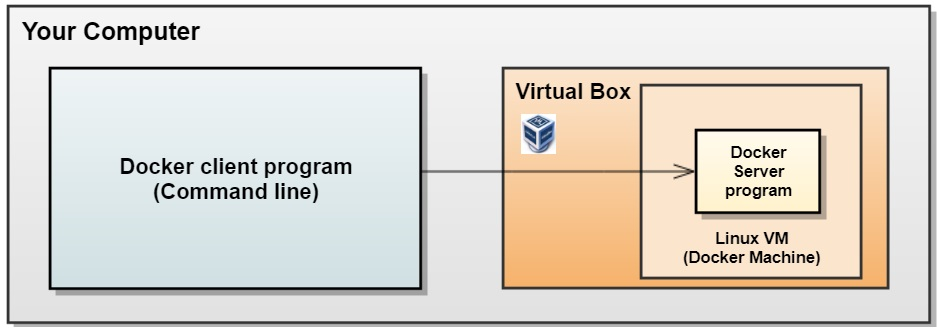
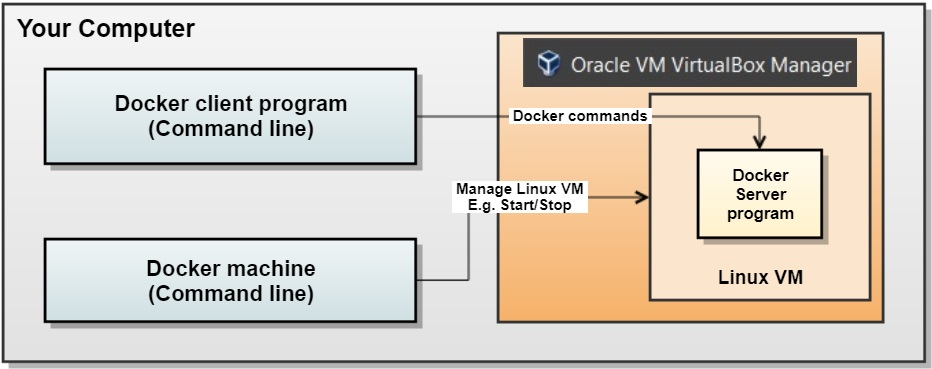
how to use docker

Changed region(s): [[0.0, 0.0, 1.0, 1.0], [0.1245, 0.2439, 0.3734, 0.3963], [0.1556, 0.7012, 0.3423, 0.8232]]

diff --git a/docker/README.md b/docker/README.md
@@ -19,12 +19,88 @@ To use docker on Mac or Windows, we need to install the Docker toolbox. This too
 Docker toolbox will install following:
 ![Docker Installation](https://raw.githubusercontent.com/yogeshrnaik/DevOps/master/docker/images/docker-installation.jpg)
 
- - a program called **Docker**. This will help us manage the Docker virtual machine. 
+ - a client program called **Docker**. This will help us manage the Docker containers. 
  - a program called **Virtual box** for managing Virtual Machines.
+ - a Linux Virtual machine inside which the docker server program runs.
  - a program called **Docker machine** that manages Linux VM. 
- - Inside this VM, it will have the **docker server program**. All docker commands will be sent to this server docker program inside this VM. 
+ - Inside this Linux VM, it will have the **docker server program**. All docker commands will be sent to this server docker program inside this VM. 
 
 ### Installing Docker on Windows
+
+
+
+### How to use Docker on Windows
+Run "Docker Quickstart Terminal" from start menu.
+
+This will cause the Docker machine to start up if it is not already running.
+![Linux VM](https://raw.githubusercontent.com/yogeshrnaik/DevOps/master/docker/images/docker-linux-vm.jpg)
+
+Docker Quick start Terminal will also connect to this Linux Virtual machine. 
+
+It prints the IP address of the machine to which the terminal is currently connecting to.
+```
+...
+(default) Waiting for an IP...
+...
+Started machines may have new IP addresses. You may need to re-run the `docker-machine env` command.
+...
+docker is configured to use the default machine with IP 192.168.99.100
+...
+naiky@IN1WXL-301034 MINGW64 /c/DDrive/tools/Docker Toolbox
+$
+```
+In this Quick start terminal, we can run any docker command. This command is sent to the Docker server program running inside the Linux VM.
+
+### docker-machine command
+Docker machine command can be used to manage the Linux VM.
+
+**docker-machine ip** will print the IP address of the Linux VM to which it is currently connected to.
+```
+naiky@IN1WXL-301034 MINGW64 /c/DDrive/tools/Docker Toolbox
+$ docker-machine ip
+192.168.99.100
+```
+**docker-machine ssh** will connect to that machine and will give you command  prompt.
+```
+$ docker-machine ssh
+                        ##         .
+                  ## ## ##        ==
+               ## ## ## ## ##    ===
+           /"""""""""""""""""\___/ ===
+      ~~~ {~~ ~~~~ ~~~ ~~~~ ~~~ ~ /  ===- ~~~
+           \______ o           __/
+             \    \         __/
+              \____\_______/
+ _                 _   ____     _            _
+| |__   ___   ___ | |_|___ \ __| | ___   ___| | _____ _ __
+| '_ \ / _ \ / _ \| __| __) / _` |/ _ \ / __| |/ / _ \ '__|
+| |_) | (_) | (_) | |_ / __/ (_| | (_) | (__|   <  __/ |
+|_.__/ \___/ \___/ \__|_____\__,_|\___/ \___|_|\_\___|_|
+Boot2Docker version 18.05.0-ce, build HEAD : b5d6989 - Thu May 10 16:35:28 UTC 2018
+Docker version 18.05.0-ce, build f150324
+docker@default:~$
+```
+
+**docker-machine stop** will stop the VM.
+```
+naiky@IN1WXL-301034 MINGW64 /c/DDrive/tools/Docker Toolbox
+$ docker-machine stop
+Stopping "default"...
+Machine "default" was stopped.
+```
+**docker-machine start** will start the VM.
+```
+naiky@IN1WXL-301034 MINGW64 /c/DDrive/tools/Docker Toolbox
+$ docker-machine start
+Starting "default"...
+(default) Check network to re-create if needed...
+(default) Windows might ask for the permission to configure a dhcp server. Sometimes, such confirmation window is minimized in the taskbar.
+(default) Waiting for an IP...
+Machine "default" was started.
+Waiting for SSH to be available...
+Detecting the provisioner...
+Started machines may have new IP addresses. You may need to re-run the `docker-machine env` command.
+```
 
 
 ## The Docker flow: Images to containers
